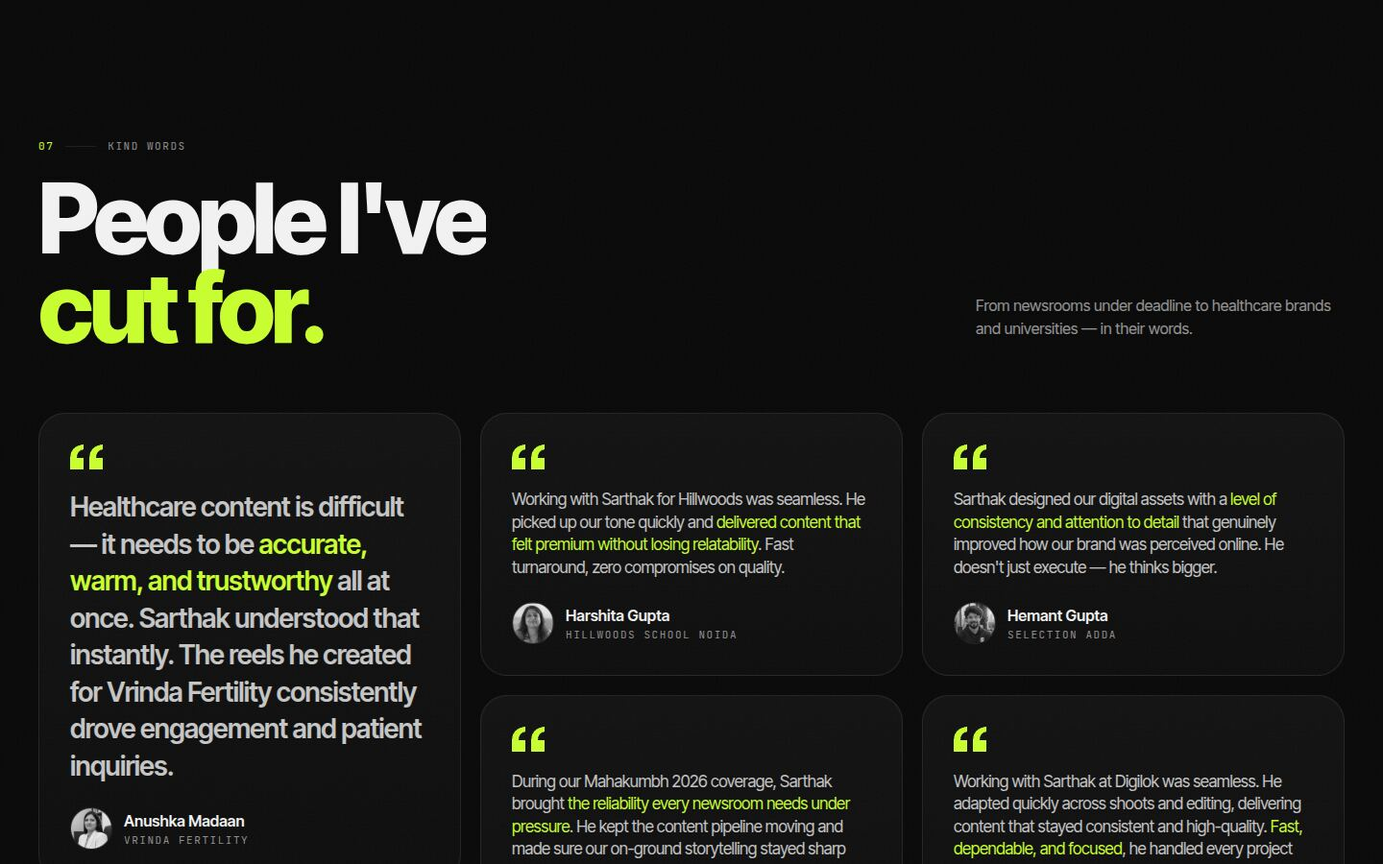
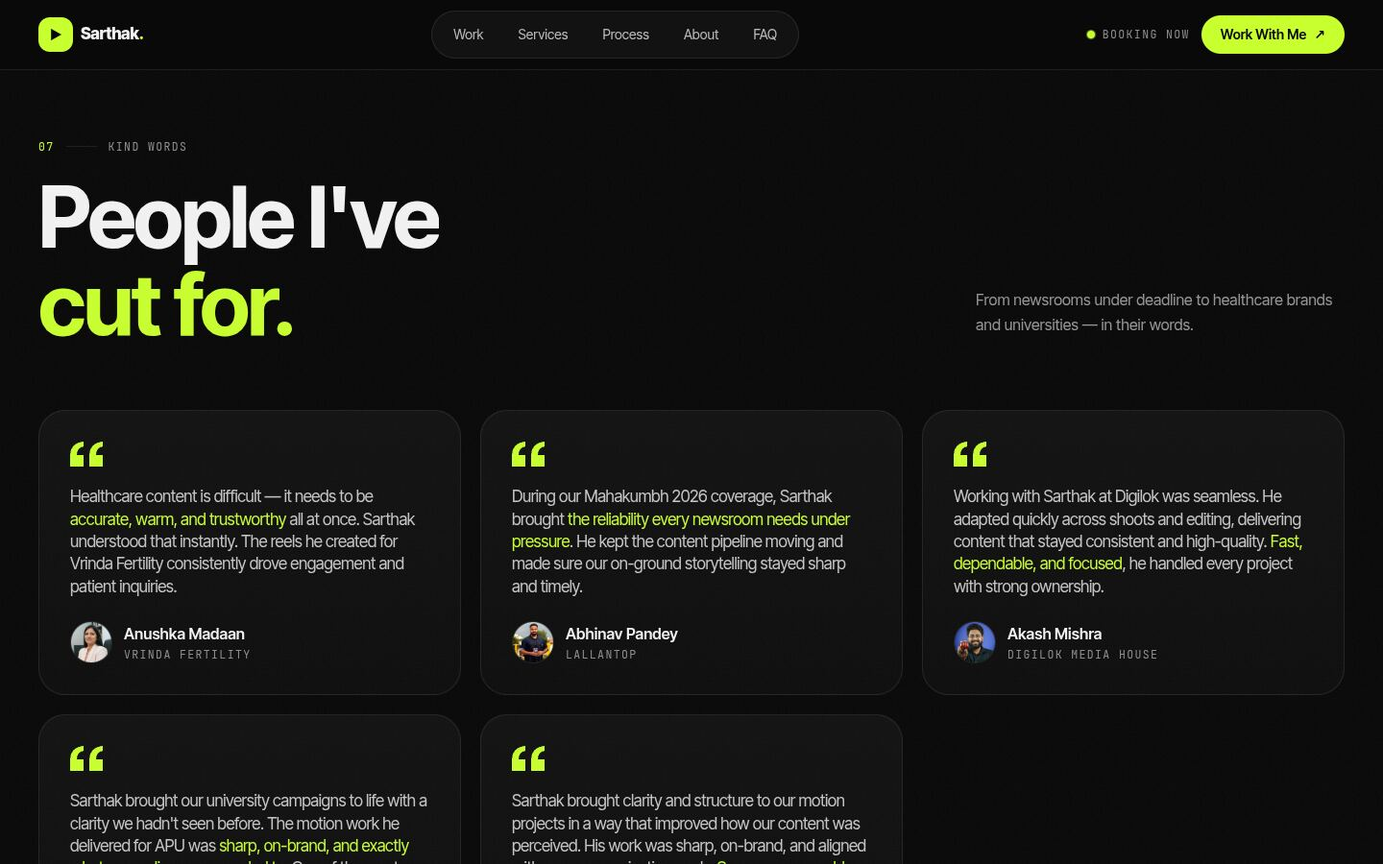
Design feedback: fixed nav, typography, work grid, photos, content fixes
- Nav stays fixed at the top with a blurred background once scrolled
- Looser heading tracking/line-height and better body text rhythm
- Selected Work split into a Long-form grid and a single Shorts row
- Services: middle-row visuals share one height so they line up
- Natural-colour photos (About and the Process after-grade)
- Testimonials all use the same card style
- TestMu AI role: Motion Designer, with a real role description
- Hero intro rewritten; WhatsApp removed from the CTA
- Email corrected to sarthakkrawat.official@gmail.com

Claude-Session: https://claude.ai/code/session_0186cHEgzGDPZ1Yt7HQvy5Cj

diff --git a/src/components/sections/Work.tsx b/src/components/sections/Work.tsx
@@ -12,6 +12,8 @@ export default function Work({ projects }: { projects: Project[] }) {
   const open = useVideoModal();
   const cats = useMemo(() => ["All", ...CATEGORIES.filter((c) => projects.some((p) => p.category === c)), ...Array.from(new Set(projects.map((p) => p.category))).filter((c) => !(CATEGORIES as readonly string[]).includes(c))], [projects]);
   const list = filter === "All" ? projects : projects.filter((p) => p.category === filter);
+  const longs = list.filter((p) => p.orientation !== "portrait");
+  const shorts = list.filter((p) => p.orientation === "portrait");
   const first = useRef(true);
 
   useEffect(() => {
@@ -55,37 +57,74 @@ export default function Work({ projects }: { projects: Project[] }) {
           })}
         </div>
 
-        <div ref={grid} className="mt-8 flex flex-wrap gap-x-4 gap-y-8 md:gap-x-5 md:gap-y-12">
-          {list.map((p) => {
-            const ar = p.orientation === "portrait" ? 9 / 16 : 16 / 9;
-            const idx = projects.indexOf(p) + 1;
-            return (
-              <article key={p.id} className="work-item group min-w-0" style={{ flexGrow: ar, flexBasis: `${ar * 230}px` }}>
-                <button type="button" data-cursor="play" onClick={() => open({ id: p.youtubeId, title: p.title, orientation: p.orientation })} className="relative block w-full overflow-hidden rounded-[22px] border border-line bg-card text-left transition-[border-color,box-shadow] duration-500 group-hover:border-lime/60 group-hover:shadow-[0_30px_80px_-30px_rgba(200,255,46,0.45)]" style={{ paddingBottom: `${100 / ar}%` }} aria-label={`Play ${p.title}`}>
-                  <VideoThumb id={p.youtubeId} title={p.title} />
-                  <div className="pointer-events-none absolute inset-0 bg-gradient-to-t from-black/70 via-transparent to-black/20" />
-                  <span className="label pointer-events-none absolute left-4 top-4 rounded-full bg-black/70 px-2.5 py-1 text-[10px] text-fg/85">{p.category}</span>
-                  <span className="label pointer-events-none absolute right-4 top-4 text-[10px] text-fg/60">{String(idx).padStart(2, "0")}</span>
-                  {p.orientation === "landscape" && <p className="pointer-events-none absolute inset-x-4 bottom-4 max-w-md translate-y-3 text-sm leading-snug text-fg/85 opacity-0 transition-all duration-500 group-hover:translate-y-0 group-hover:opacity-100">{p.description}</p>}
-                </button>
-                <div className="mt-4 flex items-start justify-between gap-3 px-1">
-                  <div className="min-w-0">
-                    <h3 className="text-xl font-bold leading-tight tracking-tight md:text-2xl">{p.title}</h3>
-                    <div className="label mt-2 text-lime">{p.client}</div>
-                  </div>
-                  <span className="mt-1 grid h-9 w-9 shrink-0 place-items-center rounded-full border border-line text-sm transition-all duration-500 group-hover:rotate-45 group-hover:border-lime group-hover:bg-lime group-hover:text-bg" aria-hidden>↗</span>
-                </div>
-                <dl className="mt-3 flex flex-wrap gap-1.5 px-1">
-                  <div className="label rounded-full border border-line px-2.5 py-1 !text-[10px] text-fg/60"><dt className="sr-only">Platform</dt><dd>{p.platform}</dd></div>
-                  <div className="label rounded-full border border-line px-2.5 py-1 !text-[10px] text-fg/60"><dt className="sr-only">Role</dt><dd>{p.role}</dd></div>
-                </dl>
-              </article>
-            );
-          })}
-          {/* filler keeps the last row from over-stretching */}
-          <div aria-hidden style={{ flexGrow: 10, flexBasis: 0 }} />
+        <div ref={grid} className="mt-10 space-y-14 md:space-y-20">
+          {longs.length > 0 && (
+            <div>
+              <GroupLabel label="Long-form" sub="16:9 · YouTube & web" count={longs.length} />
+              <div className="grid grid-cols-1 gap-x-5 gap-y-10 md:grid-cols-2">
+                {longs.map((p, i) => (
+                  <Card key={p.id} p={p} idx={projects.indexOf(p) + 1} feature={longs.length % 2 === 1 && i === 0} onOpen={open} />
+                ))}
+              </div>
+            </div>
+          )}
+          {shorts.length > 0 && (
+            <div>
+              <GroupLabel label="Shorts & Reels" sub="9:16 · Reels / Shorts" count={shorts.length} />
+              <div className="grid grid-cols-2 gap-x-4 gap-y-10 sm:grid-cols-3 lg:grid-cols-5 md:gap-x-5">
+                {shorts.map((p) => (
+                  <Card key={p.id} p={p} idx={projects.indexOf(p) + 1} onOpen={open} />
+                ))}
+              </div>
+            </div>
+          )}
         </div>
       </div>
     </section>
+  );
+}
+
+function GroupLabel({ label, sub, count }: { label: string; sub: string; count: number }) {
+  return (
+    <div className="mb-6 flex items-end justify-between gap-4 border-b border-line pb-4">
+      <h3 className="text-2xl font-semibold tracking-tight md:text-3xl">
+        {label} <span className="label align-middle text-muted">{String(count).padStart(2, "0")}</span>
+      </h3>
+      <span className="label hidden text-muted sm:block">{sub}</span>
+    </div>
+  );
+}
+
+function Card({ p, idx, feature = false, onOpen }: { p: Project; idx: number; feature?: boolean; onOpen: ReturnType<typeof useVideoModal> }) {
+  const portrait = p.orientation === "portrait";
+  return (
+    <article className={`work-item group min-w-0 ${feature ? "md:col-span-2" : ""}`}>
+      <button
+        type="button"
+        data-cursor="play"
+        onClick={() => onOpen({ id: p.youtubeId, title: p.title, orientation: p.orientation })}
+        className={`relative block w-full overflow-hidden rounded-[20px] border border-line bg-card text-left transition-[border-color,box-shadow] duration-500 group-hover:border-lime/60 group-hover:shadow-[0_30px_80px_-30px_rgba(200,255,46,0.45)] ${portrait ? "aspect-[9/16]" : feature ? "aspect-video md:aspect-[21/9]" : "aspect-video"}`}
+        aria-label={`Play ${p.title}`}
+      >
+        <VideoThumb id={p.youtubeId} title={p.title} quality={feature ? "maxres" : "hq"} />
+        <div className="pointer-events-none absolute inset-0 bg-gradient-to-t from-black/70 via-transparent to-black/20" />
+        <span className="label pointer-events-none absolute left-3 top-3 rounded-full bg-black/70 px-2.5 py-1 text-[10px] text-fg/85 md:left-4 md:top-4">{p.category}</span>
+        <span className="label pointer-events-none absolute right-3 top-3 text-[10px] text-fg/60 md:right-4 md:top-4">{String(idx).padStart(2, "0")}</span>
+        {!portrait && <p className="pointer-events-none absolute inset-x-4 bottom-4 max-w-md translate-y-3 text-sm leading-relaxed text-fg/85 opacity-0 transition-all duration-500 group-hover:translate-y-0 group-hover:opacity-100">{p.description}</p>}
+      </button>
+      <div className="mt-4 flex items-start justify-between gap-3 px-1">
+        <div className="min-w-0">
+          <h4 className={`font-semibold leading-snug tracking-tight ${portrait ? "text-base md:text-lg" : "text-xl md:text-2xl"}`}>{p.title}</h4>
+          <div className="label mt-1.5 text-lime">{p.client}</div>
+        </div>
+        {!portrait && (
+          <span className="mt-1 grid h-9 w-9 shrink-0 place-items-center rounded-full border border-line text-sm transition-all duration-500 group-hover:rotate-45 group-hover:border-lime group-hover:bg-lime group-hover:text-bg" aria-hidden>↗</span>
+        )}
+      </div>
+      <dl className="mt-3 flex flex-wrap gap-1.5 px-1">
+        {!portrait && <div className="label rounded-full border border-line px-2.5 py-1 !text-[10px] text-fg/60"><dt className="sr-only">Platform</dt><dd>{p.platform}</dd></div>}
+        <div className="label rounded-full border border-line px-2.5 py-1 !text-[10px] text-fg/60"><dt className="sr-only">Role</dt><dd>{p.role}</dd></div>
+      </dl>
+    </article>
   );
 }

diff --git a/src/components/sections/Services.tsx b/src/components/sections/Services.tsx
@@ -105,7 +105,7 @@ function Bars() {
 
 function Waveform() {
   return (
-    <div className="mt-auto rounded-2xl border border-line bg-black/50 p-3">
+    <div className="flex h-full flex-col justify-between rounded-2xl border border-line bg-black/50 p-3">
       <div className="label mb-3 flex items-center justify-between text-[9px] text-muted">
         <span className="flex items-center gap-1.5"><span className="h-1.5 w-1.5 rounded-full bg-lime" style={{ animation: "blink 1s steps(2) infinite" }} /> HOST · CAM A</span>
         <span>−14 LUFS</span>
@@ -127,7 +127,7 @@ function Waveform() {
 function Captions() {
   const words = ["stop", "scrolling", "— this", "part", "matters."];
   return (
-    <div className="mt-auto flex justify-center">
+    <div className="flex h-full items-center justify-center">
       <div className="relative h-44 w-28 overflow-hidden rounded-[18px] border border-fg/15 bg-gradient-to-b from-[#1a1a1a] to-[#0b0b0b] p-2">
         <div className="mx-auto mb-2 h-1 w-8 rounded-full bg-fg/20" />
         <div className="absolute inset-x-2 bottom-8 flex flex-wrap justify-center gap-1">
@@ -148,7 +148,7 @@ function Captions() {
 
 function StoryArc() {
   return (
-    <div className="mt-auto rounded-2xl border border-line bg-black/50 p-3">
+    <div className="flex h-full flex-col justify-between rounded-2xl border border-line bg-black/50 p-3">
       <svg viewBox="0 0 200 60" className="h-16 w-full" aria-hidden>
         <path d="M5 52 C 50 50, 60 40, 90 30 S 140 2, 160 8 S 185 40, 195 46" fill="none" stroke="rgba(242,242,242,0.15)" strokeWidth="1.5" />
         <path d="M5 52 C 50 50, 60 40, 90 30 S 140 2, 160 8 S 185 40, 195 46" fill="none" stroke="#C8FF2E" strokeWidth="2" strokeDasharray="260" strokeDashoffset="260" style={{ animation: "dash 3.5s ease-in-out infinite alternate" }} />
@@ -192,7 +192,7 @@ function Flow() {
 }
 
 /* ---------------- card with hover tilt ---------------- */
-function Card({ className = "", shape, title, body, tag, children }: { className?: string; shape: keyof typeof SHAPES; title: string; body: string; tag: string; children: React.ReactNode }) {
+function Card({ className = "", shape, title, body, tag, children, fixed = false }: { className?: string; shape: keyof typeof SHAPES; title: string; body: string; tag: string; children: React.ReactNode; fixed?: boolean }) {
   const ref = useRef<HTMLDivElement>(null);
   const move = (e: React.PointerEvent) => {
     const r = ref.current!.getBoundingClientRect();
@@ -217,8 +217,8 @@ function Card({ className = "", shape, title, body, tag, children }: { className
         <span className="label text-muted">{tag}</span>
       </div>
       <h3 className="relative mt-6 text-2xl font-bold tracking-tight md:text-[28px]">{title}</h3>
-      <p className="relative mb-6 mt-2 max-w-md text-[15px] leading-relaxed text-fg/60">{body}</p>
-      <div className="relative mt-auto flex flex-col">{children}</div>
+      <p className="relative mb-6 mt-2 max-w-md text-[15px] leading-relaxed text-fg/60 md:min-h-[3.3em]">{body}</p>
+      <div className={`relative mt-auto flex flex-col ${fixed ? "h-[210px]" : ""}`}>{children}</div>
     </div>
   );
 }
@@ -236,13 +236,13 @@ export default function Services() {
           <Card className="md:col-span-2" shape="motion" tag="MOTION" title="Motion & UI animation" body="SaaS walkthroughs and product stories brought to life with clean, purposeful movement.">
             <Bars />
           </Card>
-          <Card className="md:col-span-2" shape="wave" tag="TALK" title="Podcasts & talking heads" body="Tight cuts, clean audio and B-roll that keeps a single voice watchable.">
+          <Card fixed className="md:col-span-2" shape="wave" tag="TALK" title="Podcasts & talking heads" body="Tight cuts, clean audio and B-roll that keeps a single voice watchable.">
             <Waveform />
           </Card>
-          <Card className="md:col-span-2" shape="reel" tag="SHORTS" title="Reels & short-form" body="Hooks in the first second, kinetic captions, built natively for each feed.">
+          <Card fixed className="md:col-span-2" shape="reel" tag="SHORTS" title="Reels & short-form" body="Hooks in the first second, kinetic captions, built natively for each feed.">
             <Captions />
           </Card>
-          <Card className="md:col-span-2" shape="doc" tag="STORY" title="Documentary storytelling" body="Real moments shaped into an arc with a beginning, a turn and a payoff.">
+          <Card fixed className="md:col-span-2" shape="doc" tag="STORY" title="Documentary storytelling" body="Real moments shaped into an arc with a beginning, a turn and a payoff.">
             <StoryArc />
           </Card>
           <Card className="md:col-span-6 md:min-h-[300px]" shape="spark" tag="DIRECTION" title="Creative direction & AI-assisted workflows" body="From brief to final export — I plan the story, lead the look, and use AI tools where they save time without flattening the craft.">

diff --git a/src/components/Nav.tsx b/src/components/Nav.tsx
@@ -13,17 +13,10 @@ const LINKS = [
 
 export default function Nav({ available }: { available: boolean }) {
   const [scrolled, setScrolled] = useState(false);
-  const [hidden, setHidden] = useState(false);
   const [open, setOpen] = useState(false);
   useEffect(() => {
-    let last = 0;
-    const on = () => {
-      const y = window.scrollY;
-      setScrolled(y > 40);
-      setHidden(y > 600 && y > last + 2);
-      if (y < last - 2) setHidden(false);
-      last = y;
-    };
+    const on = () => setScrolled(window.scrollY > 24);
+    on();
     window.addEventListener("scroll", on, { passive: true });
     return () => window.removeEventListener("scroll", on);
   }, []);
@@ -31,15 +24,19 @@ export default function Nav({ available }: { available: boolean }) {
 
   return (
     <>
-      <header className={`fixed inset-x-0 top-0 z-[120] transition-transform duration-500 ease-[cubic-bezier(.16,1,.3,1)] ${hidden && !open ? "-translate-y-full" : ""}`}>
-        <div className="wrap flex items-center justify-between py-4 md:py-5">
+      <header
+        className={`fixed inset-x-0 top-0 z-[120] border-b transition-[background-color,border-color,backdrop-filter] duration-300 ${
+          scrolled || open ? "border-line bg-[#070707]/70 backdrop-blur-xl backdrop-saturate-150" : "border-transparent bg-transparent"
+        }`}
+      >
+        <div className="wrap flex h-16 items-center justify-between md:h-[72px]">
           <a href="#top" className="flex items-center gap-2 text-[17px] font-extrabold tracking-tight" aria-label="Sarthak Rawat — home">
             <span className="grid h-9 w-9 place-items-center rounded-xl bg-lime text-bg">
               <svg width="12" height="12" viewBox="0 0 10 10"><path d="M1 0l9 5-9 5z" fill="currentColor" /></svg>
             </span>
             <span>Sarthak<span className="text-lime">.</span></span>
           </a>
-          <nav className={`hidden items-center gap-1 rounded-full border border-line p-1.5 backdrop-blur-xl transition-colors md:flex ${scrolled ? "bg-[#0d0d0d]/80" : "bg-white/[0.03]"}`}>
+          <nav className={`hidden items-center gap-1 rounded-full border border-line p-1.5 transition-colors md:flex ${scrolled ? "bg-white/[0.04]" : "bg-[#0d0d0d]/60"}`}>
             {LINKS.map(([l, h]) => (
               <a key={h} href={h} className="rounded-full px-4 py-2 text-sm text-fg/75 transition-colors hover:bg-white/[0.06] hover:text-fg">
                 {l}
@@ -58,7 +55,7 @@ export default function Nav({ available }: { available: boolean }) {
                 Work With Me <span aria-hidden>↗</span>
               </a>
             </Magnetic>
-            <button className="grid h-11 w-11 place-items-center rounded-full border border-line bg-[#0d0d0d]/80 backdrop-blur md:hidden" onClick={() => setOpen((o) => !o)} aria-label={open ? "Close menu" : "Open menu"} aria-expanded={open}>
+            <button className="grid h-11 w-11 place-items-center rounded-full border border-line bg-[#0d0d0d]/80 md:hidden" onClick={() => setOpen((o) => !o)} aria-label={open ? "Close menu" : "Open menu"} aria-expanded={open}>
               <span className="relative block h-3 w-5">
                 <span className={`absolute left-0 h-[2px] w-5 bg-fg transition-all duration-300 ${open ? "top-1.5 rotate-45" : "top-0"}`} />
                 <span className={`absolute left-0 h-[2px] w-5 bg-fg transition-all duration-300 ${open ? "top-1.5 -rotate-45" : "top-3"}`} />

diff --git a/src/components/sections/Process.tsx b/src/components/sections/Process.tsx
@@ -50,7 +50,7 @@ export default function Process() {
           {/* AFTER (full) */}
           <div className="absolute inset-0">
             {/* eslint-disable-next-line @next/next/no-img-element */}
-            <img src={asset("/img/photo.webp")} alt="" draggable={false} className="absolute inset-0 h-full w-full scale-[1.12] object-cover object-[50%_30%] [filter:grayscale(1)_contrast(1.35)_brightness(1.05)]" />
+            <img src={asset("/img/photo.webp")} alt="" draggable={false} className="absolute inset-0 h-full w-full scale-[1.08] object-cover object-[50%_30%] [filter:contrast(1.06)_saturate(0.92)_brightness(1.02)]" />
             <div className="absolute inset-0 bg-[radial-gradient(ellipse_at_50%_40%,transparent_30%,rgba(0,0,0,0.65)_100%)]" />
             <div className="absolute inset-x-0 top-0 h-[7%] bg-black" />
             <div className="absolute inset-x-0 bottom-0 h-[7%] bg-black" />
@@ -68,7 +68,7 @@ export default function Process() {
           {/* BEFORE (clipped) */}
           <div className="absolute inset-0" style={{ clipPath: "inset(0 calc(100% - var(--split)) 0 0)" }}>
             {/* eslint-disable-next-line @next/next/no-img-element */}
-            <img src={asset("/img/photo.webp")} alt="" draggable={false} className="absolute inset-0 h-full w-full object-cover object-[50%_30%] [filter:saturate(0.15)_contrast(0.55)_brightness(1.35)_blur(0.4px)]" />
+            <img src={asset("/img/photo.webp")} alt="" draggable={false} className="absolute inset-0 h-full w-full object-cover object-[50%_30%] [filter:saturate(0.35)_contrast(0.62)_brightness(1.25)]" />
             {/* raw overlays: thirds grid, timecode, scopes */}
             <div className="absolute inset-0 grid grid-cols-3 grid-rows-3">
               {Array.from({ length: 9 }).map((_, i) => <span key={i} className="border border-white/10" />)}
@@ -94,7 +94,7 @@ export default function Process() {
           {STEPS.map((s) => (
             <div key={s.n} className="step-card card relative p-6 md:mt-8 md:p-8">
               <div className="flex items-center justify-between">
-                <span className="text-6xl font-extrabold tracking-[-0.06em] text-lime md:text-7xl">{s.n}</span>
+                <span className="text-6xl font-extrabold tracking-[-0.035em] text-lime md:text-7xl">{s.n}</span>
                 <span className="label text-muted">Step</span>
               </div>
               <h3 className="mt-8 text-2xl font-bold tracking-tight">{s.t}</h3>

diff --git a/src/components/sections/Testimonials.tsx b/src/components/sections/Testimonials.tsx
@@ -14,7 +14,7 @@ function Quote({ t, big = false }: { t: Testimonial; big?: boolean }) {
       <figcaption className="mt-6 flex items-center gap-3">
         {t.avatar ? (
           // eslint-disable-next-line @next/next/no-img-element
-          <img src={asset(t.avatar)} alt="" className={`h-11 w-11 rounded-full border border-line ${t.isLogo ? "bg-white/90 object-contain p-1.5" : "object-cover grayscale"}`} loading="lazy" />
+          <img src={asset(t.avatar)} alt="" className={`h-11 w-11 rounded-full border border-line ${t.isLogo ? "bg-white/90 object-contain p-1.5" : "object-cover"}`} loading="lazy" />
         ) : (
           <span className="grid h-11 w-11 place-items-center rounded-full bg-lime font-bold text-bg">{t.name[0]}</span>
         )}
@@ -29,14 +29,12 @@ function Quote({ t, big = false }: { t: Testimonial; big?: boolean }) {
 
 export default function Testimonials({ items }: { items: Testimonial[] }) {
   if (!items.length) return null;
-  const [first, ...rest] = items;
   return (
     <section id="testimonials" className="relative py-24 md:py-36">
       <div className="wrap">
         <SectionHead index="07" label="Kind words" lines={["People I've", { text: "cut for.", className: "text-lime" }]} aside={<p>From newsrooms under deadline to healthcare brands and universities — in their words.</p>} />
         <Reveal className="mt-12 columns-1 gap-4 md:mt-16 md:columns-2 md:gap-5 lg:columns-3">
-          <Quote t={first} big />
-          {rest.map((t) => <Quote key={t.name} t={t} />)}
+          {items.map((t) => <Quote key={t.name} t={t} />)}
         </Reveal>
       </div>
     </section>

diff --git a/src/content/site.ts b/src/content/site.ts
@@ -64,7 +64,7 @@ export const fallbackContent: SiteContent = {
     name: "Sarthak Rawat",
     role: "Video Editor & Motion Designer",
     location: "Noida, India",
-    email: "sarthakrawat23609@gmail.com",
+    email: "sarthakkrawat.official@gmail.com",
     phone: "+91 95987 23609",
     phoneHref: "tel:+919598723609",
     instagram: "https://instagram.com/sarthakk.create",
@@ -292,7 +292,7 @@ export const fallbackContent: SiteContent = {
     {
       question: "Do you work remotely?",
       answer:
-        "I'm based in Noida, India and work with clients remotely. Files move through shared links, and we stay in sync over email or WhatsApp.",
+        "I'm based in Noida, India and work with clients remotely. Files move through shared links, and we stay in sync over email or calls.",
     },
   ],
   tools: [
@@ -308,9 +308,9 @@ export const fallbackContent: SiteContent = {
   journey: [
     {
       period: "Aug 2026 — Present",
-      role: "Video Editor & Motion Designer",
+      role: "Motion Designer",
       company: "TestMu AI",
-      note: "The current chapter — joined 10 August 2026.",
+      note: "Conceptualising AI-focused content and producing product, explainer and social videos end to end — from script and storyboard to motion and final edit.",
       current: true,
     },
     {

diff --git a/src/components/sections/Contact.tsx b/src/components/sections/Contact.tsx
@@ -17,7 +17,6 @@ export default function Contact({ settings }: { settings: Settings }) {
     return () => ctx.revert();
   }, []);
   const year = new Date().getFullYear();
-  const wa = settings.phoneHref.replace("tel:", "").replace(/\D/g, "");
   return (
     <section ref={root} id="contact" className="relative pt-16 md:pt-24">
       <div className="px-3 md:px-6">
@@ -35,7 +34,6 @@ export default function Contact({ settings }: { settings: Settings }) {
                   <span className="text-lime transition-transform duration-300 group-hover:translate-x-1 group-hover:-translate-y-1">↗</span>
                 </a>
                 <div className="mt-6 flex flex-wrap gap-2">
-                  <a href={`https://wa.me/${wa}`} target="_blank" rel="noopener noreferrer" className="rounded-full border border-line px-4 py-2.5 text-sm hover:border-lime hover:text-lime">WhatsApp</a>
                   <a href={settings.phoneHref} className="rounded-full border border-line px-4 py-2.5 text-sm hover:border-lime hover:text-lime">{settings.phone}</a>
                   <a href={settings.instagram} target="_blank" rel="noopener noreferrer" className="rounded-full border border-line px-4 py-2.5 text-sm hover:border-lime hover:text-lime">Instagram {settings.instagramHandle}</a>
                 </div>

diff --git a/src/app/globals.css b/src/app/globals.css
@@ -27,7 +27,14 @@ body {
   background: var(--color-bg);
   font-family: var(--font-sans);
   overflow-x: hidden;
+  font-size: 16px;
+  line-height: 1.6;
+  letter-spacing: 0.002em;
+  font-feature-settings: "ss01", "cv11";
+  text-rendering: optimizeLegibility;
 }
+p { text-wrap: pretty; }
+h1, h2, h3 { text-wrap: balance; }
 
 ::selection { background: var(--color-lime); color: #070707; }
 
@@ -38,20 +45,21 @@ body {
 /* ---------- primitives ---------- */
 .label {
   font-family: var(--font-mono);
-  font-size: 11px;
-  letter-spacing: 0.14em;
+  font-size: 11.5px;
+  line-height: 1.5;
+  letter-spacing: 0.12em;
   text-transform: uppercase;
 }
 .h-display {
-  font-weight: 800;
-  letter-spacing: -0.055em;
-  line-height: 0.86;
+  font-weight: 750;
+  letter-spacing: -0.035em;
+  line-height: 0.95;
 }
 .h-section {
-  font-weight: 800;
-  letter-spacing: -0.045em;
-  line-height: 0.92;
-  font-size: clamp(2.6rem, 7vw, 6.5rem);
+  font-weight: 700;
+  letter-spacing: -0.03em;
+  line-height: 1.02;
+  font-size: clamp(2.5rem, 6.2vw, 5.75rem);
 }
 .wrap { width: 100%; max-width: 1440px; margin-inline: auto; padding-inline: 16px; }
 @media (min-width: 768px) { .wrap { padding-inline: 40px; } }

diff --git a/src/components/sections/Hero.tsx b/src/components/sections/Hero.tsx
@@ -75,7 +75,7 @@ export default function Hero({ settings, projects }: { settings: Settings; proje
 
           <div className="mt-8 flex flex-col gap-8 md:mt-10 md:flex-row md:items-end md:justify-between">
             <p className="hero-fade max-w-md text-[17px] leading-relaxed text-fg/70 md:text-lg">
-              Self-taught editor and motion designer, currently at {settings.currentCompany}. {settings.yearsExperience} years turning SaaS products, podcasts, tours and real moments into videos people finish — and remember.
+              Self-taught motion designer and video editor, currently at {settings.currentCompany}. {settings.yearsExperience} years of SaaS explainers, product launches, podcasts and short-form content — built around a clear story and purposeful motion.
             </p>
             <div className="hero-fade pointer-events-auto flex flex-wrap gap-3">
               <Magnetic>

diff --git a/src/components/sections/About.tsx b/src/components/sections/About.tsx
@@ -22,7 +22,7 @@ export default function About({ settings, journey }: { settings: Settings; journ
         <div className="md:col-span-5">
           <div className="about-photo relative aspect-[4/5] overflow-hidden rounded-[28px] border border-line">
             {/* eslint-disable-next-line @next/next/no-img-element */}
-            <img src={asset("/img/photo.webp")} alt={settings.name} className="about-img absolute inset-0 h-full w-full object-cover object-[50%_30%] [filter:grayscale(1)_contrast(1.2)]" />
+            <img src={asset("/img/photo.webp")} alt={settings.name} className="about-img absolute inset-0 h-full w-full object-cover object-[50%_30%]" />
             <div className="absolute inset-0 bg-gradient-to-t from-black/80 via-transparent to-transparent" />
             <div className="absolute inset-x-5 bottom-5 flex items-end justify-between">
               <div>

diff --git a/src/components/sections/StatsBand.tsx b/src/components/sections/StatsBand.tsx
@@ -9,7 +9,7 @@ export default function StatsBand({ stats, clients }: { stats: Stat[]; clients: 
       <div className="wrap grid grid-cols-2 md:grid-cols-4">
         {stats.map((s, i) => (
           <div key={i} className={`py-8 md:py-12 ${i % 2 ? "pl-5 md:pl-8" : "md:pl-8"} ${i ? "md:border-l md:border-line" : "md:pl-0"} ${i % 2 ? "border-l border-line md:border-l" : ""} ${i > 1 ? "border-t border-line md:border-t-0" : ""}`}>
-            <Counter value={s.value} suffix={s.suffix} className="block text-6xl font-extrabold tracking-[-0.06em] md:text-7xl" />
+            <Counter value={s.value} suffix={s.suffix} className="block text-6xl font-extrabold tracking-[-0.035em] md:text-7xl" />
             <div className="label mt-2 text-muted">{s.label}</div>
           </div>
         ))}
